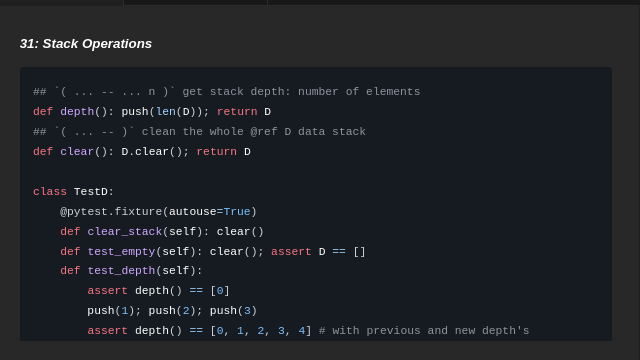
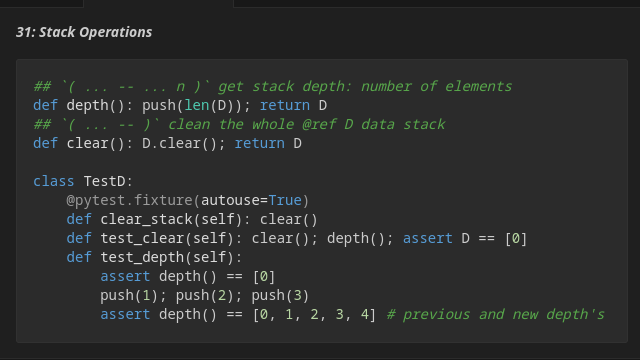
.

diff --git a/lib/test_FORTH.py b/lib/test_FORTH.py
@@ -15,12 +15,24 @@ class TestD:
     def test_pop(self): push(1); assert pop() == 1; assert D == []
     def test_top(self): push(1); assert top() == 1; assert D == [1]
 
-    def test_clear(self): clear(); assert D == []
+    def test_clear(self): clear(); depth(); assert D == [0]
 
     def test_depth(self):
         assert depth() == [0]
         push(1); push(2); push(3)
         assert depth() == [0, 1, 2, 3, 4] # with previous and new depth's
+
+    def test_dup(self):
+        push(1); dup(); assert D == [1, 1]
+
+    def test_drop(self):
+        push(1); push(2); drop(); assert D == [1]
+
+    def test_swap(self):
+        push(1); push(2); swap(); assert D == [2, 1]
+
+    def test_over(self):
+        push(1); push(2); over(); assert D == [1, 2, 1]
 
 ## test @ref R return stack operations
 class TestR:

diff --git a/lib/FORTH.py b/lib/FORTH.py
@@ -25,15 +25,30 @@ dump()
 
 ## `( -- cell )` push any Python object into @ref D data stack
 def push(cell): D.append(cell); return D
+
 ## `( cell -- )` pop top element
 def pop(): return D.pop()
+
 ## `( cell -- cell )` get top element w/o removing
 def top(): return D[-1]
 
 ## `( ... -- ... n )` get stack depth: number of elements
 def depth(): push(len(D)); return D
+
 ## `( ... -- )` clean the whole @ref D data stack
 def clear(): D.clear(); return D
+
+## `( a -- a a )` duplicate top element
+def dup(): push(top()); return D
+
+## `( a b -- a )` drop top element
+def drop(): pop(); return D
+
+## `( a b -- b a )` swap two elements
+def swap(): a = pop(); b = pop(); push(a); push(b); return D
+
+## `( a b -- a b a )` copy sub-top element
+def over(): push(D[-2]); return D
 
 # ## used libs
 # import os, sys

diff --git a/doc/slide/slide.py b/doc/slide/slide.py
@@ -65,8 +65,8 @@ grab('31', 710, 70)
 single('31')
 
 # mas
-grab('29', y=430)
-single('29')
+grab('32', x=1225, y=370)
+single('32')
 
 with open('tmp/slide/fragments.list', 'w') as list:
     with open('tmp/slide/m3u.m3u', 'w') as m3u:

diff --git a/doc/slide/32.md b/doc/slide/32.md
@@ -1,0 +1,42 @@
+
+```py
+## `( a -- a a )` duplicate top element
+def dup():
+    push(top()); return D
+
+## `( a b -- a )` drop top element
+def drop():
+    pop(); return D
+
+## `( a b -- b a )` swap two elements
+def swap():
+    a = pop(); b = pop(); push(a); push(b); return D
+
+## `( a b -- a b a )` copy sub-top element
+def over():
+    push(top()); return D
+```
+
+## subtitles
+### ru
+
+Для эффективной работы со стэком данных в Форте существует набор фундаментальных
+операций перестановки и копирования элементов. Эти слова постоянно используются
+при написании форт-программ для склейки слов, и в определённом смысле являются
+одним из недостатков языка - синтаксическим шумом в коде.
+
+- `DUP` дублирует верхний элемент стэка. Это полезно когда нужно использовать
+значение несколько раз без повторного вычисления.
+
+- `DROP` удаляет верхний элемент, очищая стэк от ненужных промежуточных
+  результатов.
+
+- `SWAP` меняет местами два верхних элемента. Критически важно когда порядок
+аргументов не совпадает с ожиданиями следующей операции.
+
+- `OVER` копирует второй элемент сверху на вершину стэка. Позволяет "заглянуть"
+глубже в стэк без нарушения его структуры.
+
+Эти операции образуют базовый "алфавит" для манипуляций со стэком в
+конкатенативном программировании. Их комбинации позволяют реорганизовывать
+данные на стеке для любой требуемой последовательности операций.

diff --git a/doc/slide/30.md b/doc/slide/30.md
@@ -29,7 +29,7 @@ class TestD:
 
 В низкоуровневых реализациях `cell` соответствует адресу памяти форт-системы, то
 есть это машинное слово, или шестнадцатибитный адрес для восьмибитных платформ.
-Одновременно cell представляет любые примитивные типы: байты, отдельные
+Одновременно `cell` представляет любые примитивные типы: байты, отдельные
 текстовые символы, целые числа со знаком, беззнаковые целые, и иногда числа с
 плавающей точкой. Другие типы, такие как строки, в низкоуровневом Форте
 представляются на стеке в виде адреса памяти (указателя), редко индекса в
@@ -39,5 +39,5 @@ class TestD:
 как примитивным и value-типам, так и ссылочным типам (то есть скрытый
 указатель или слайс).
 
-В нашем случае Python скрывает такие детали, поэтому считайте cell синонимом
-типа object.
+В нашем случае Python скрывает такие детали, поэтому считайте `cell` синонимом
+типа `object`.

diff --git a/doc/slide/31.md b/doc/slide/31.md
@@ -9,11 +9,11 @@ def clear(): D.clear(); return D
 class TestD:
     @pytest.fixture(autouse=True)
     def clear_stack(self): clear()
-    def test_empty(self): clear(); assert D == []
+    def test_clear(self): clear(); depth(); assert D == [0]
     def test_depth(self):
         assert depth() == [0]
         push(1); push(2); push(3)
-        assert depth() == [0, 1, 2, 3, 4] # with previous and new depth's
+        assert depth() == [0, 1, 2, 3, 4] # previous and new depth's
 ```
 
 ## subtitles
